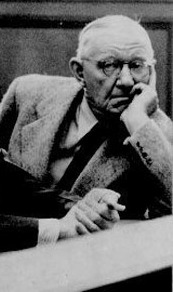
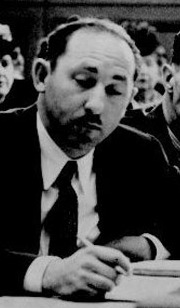
Correct Richard Gladstein photo to the man on the left (#1942)
The earlier crop took the wrong figure (rightmost man). Gladstein is the
note-taking man on the LEFT in the SFPL courtroom photo (sfphotos AAA-5992).
Re-crop and overwrite the stored photo; credit note corrected.

Claude-Session: https://claude.ai/code/session_01CrKCjcvYcFYWnikaLWCPiB

diff --git a/database/data/photos/CREDITS-nonfree.md b/database/data/photos/CREDITS-nonfree.md
@@ -289,4 +289,4 @@ have no photo and never overwrites an existing image.
 | `edward-oquendo.jpg` | Edward Oquendo (Black draft resister convicted November 6, 1967 in Brooklyn) | Cropped from the captioned photograph ("Ed Oquendo outside Federal Court Building in Brooklyn after his conviction") in Workers World, November 16, 1967, via the ETO L scan at marxists.org. Movement-published; used at low resolution. |
 | `saul-wellman.jpg` | Saul Wellman (Abraham Lincoln Brigade; postwar Michigan CPUSA chairman; Detroit Smith Act defendant) | Spanish Civil War portrait (ALBA Photo 11-0952, "Political Commissar of the Mac-Pap Battalion, Feb 1938") from the 15th International Brigade Photographic Unit Collection, Tamiment Library, NYU, via the Abraham Lincoln Brigade Archives (`alba-valb.org`). A freely-viewable non-commercial university archive image; per Tamiment, copyright varies and the item is expected to enter the public domain ~120 years after creation. Used at low resolution under a non-commercial memorial/educational rationale. |
 | `david-gordon.jpg` | David Gordon (1909–1973; Communist trade unionist/editor jailed in NY for an "indecent" poem; Abraham Lincoln Brigade veteran) | Spanish Civil War portrait (ALBA Photo 11-0234, "David Gordon, Commissariat, August 1938") from the 15th International Brigade Photographic Unit Collection, Tamiment Library, NYU, via the Abraham Lincoln Brigade Archives (`alba-valb.org`). A freely-viewable non-commercial university archive image; per Tamiment, copyright varies and the item is expected to enter the public domain ~120 years after creation. Used at low resolution under a non-commercial memorial/educational rationale. |
-| `richard-gladstein.jpg` | Richard Gladstein (labor / Smith Act defense lawyer) | Cropped (rightmost figure, per the site owner) from a San Francisco Public Library historical courtroom photograph, `webbie1.sfpl.org/multimedia/sfphotos/AAA-5992.jpg`. Archival photo; rights vary. Used at low resolution under a non-commercial documentation rationale. |
+| `richard-gladstein.jpg` | Richard Gladstein (labor / Smith Act defense lawyer) | Cropped (leftmost figure, the note-taking man) from a San Francisco Public Library historical courtroom photograph, `webbie1.sfpl.org/multimedia/sfphotos/AAA-5992.jpg`. Archival photo; rights vary. Used at low resolution under a non-commercial documentation rationale. |
